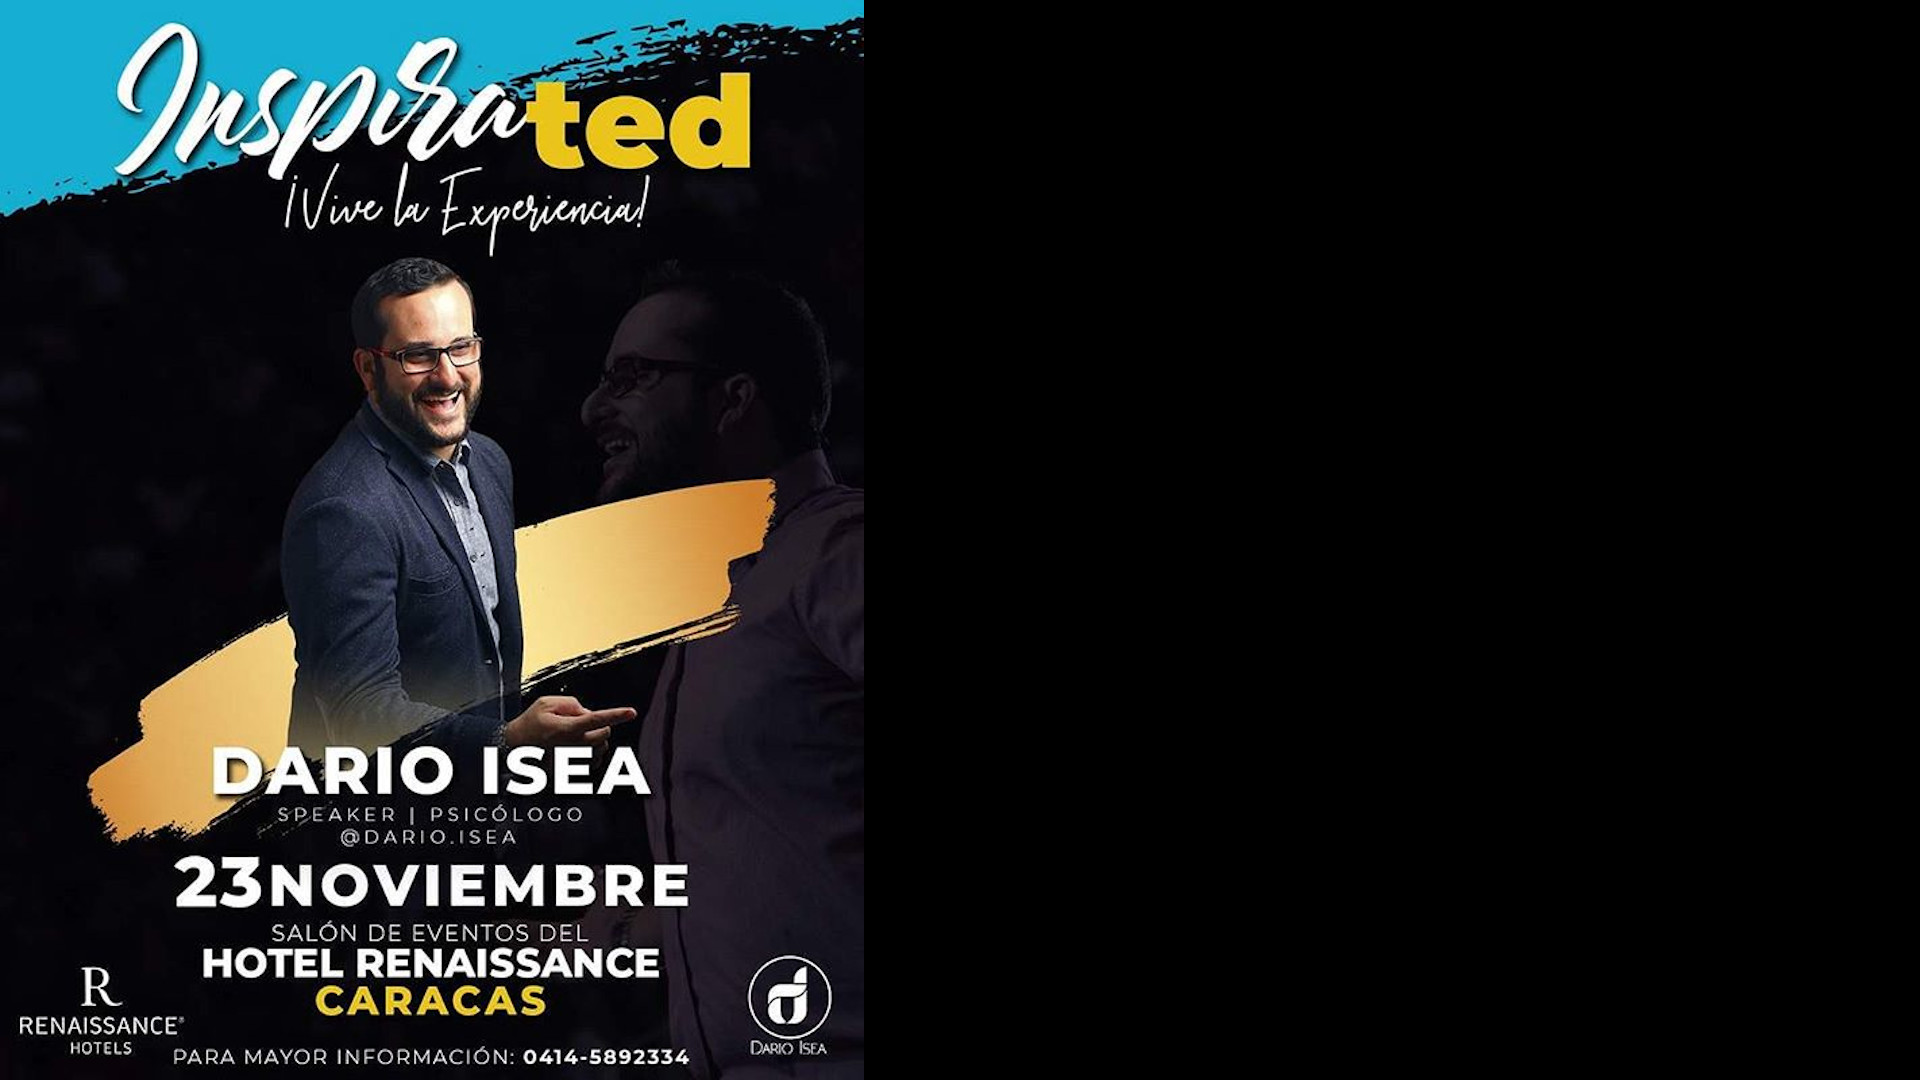
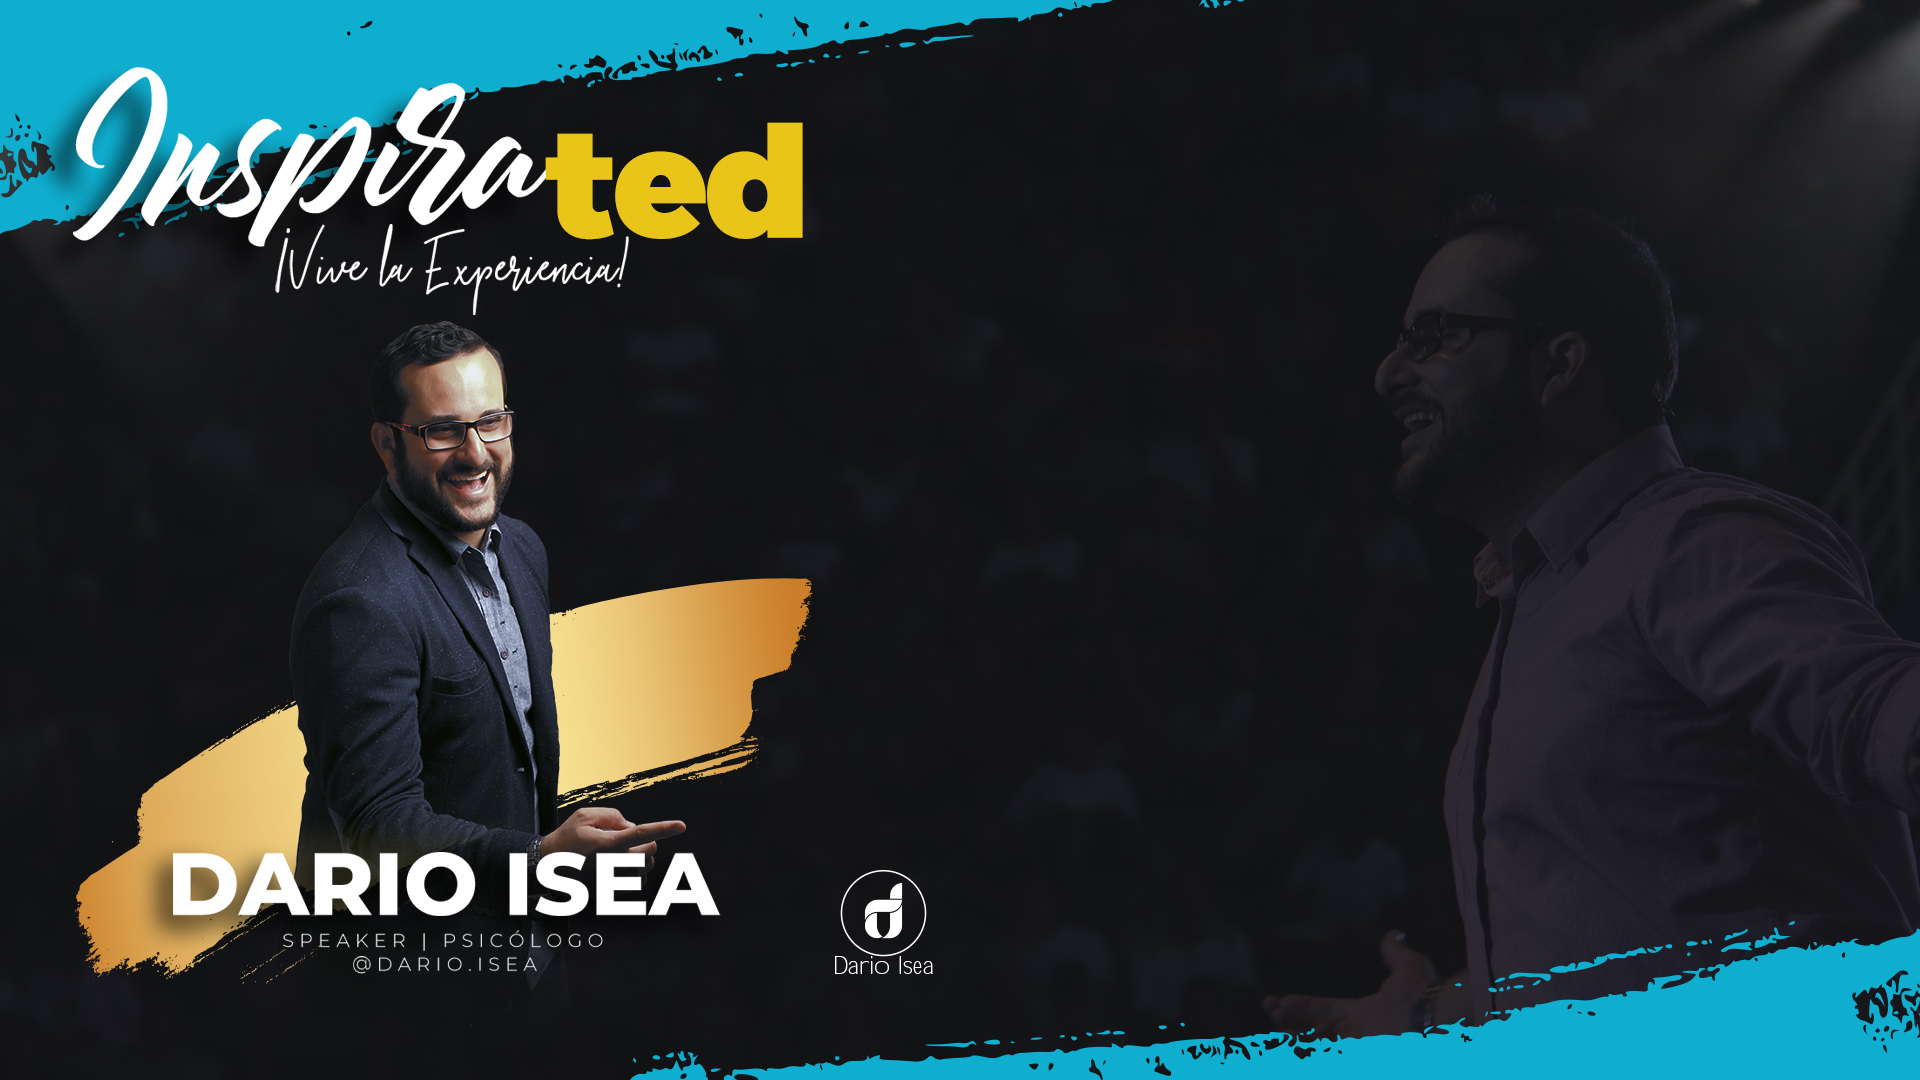
Updated Bg

diff --git a/src/pages/Home.js b/src/pages/Home.js
@@ -7,12 +7,15 @@ const useStyles = makeStyles(theme => ({
   root: {
     minHeight: '100vh',
     backgroundImage: `url(${bgLgImage})`,
-    backgroundPosition: 'center',
+    backgroundPosition: 'right',
     backgroundSize: 'cover',
     backgroundColor: '#000',
     backgroundRepeat: 'no-repeat',
     display: 'flex',
-    flexGrow: 1
+    flexGrow: 1,
+    [theme.breakpoints.up('sm')]: {
+      backgroundPosition: 'center',
+    },
   },
   grid: {
     textAlign: 'center',
@@ -29,7 +32,7 @@ const useStyles = makeStyles(theme => ({
     color: '#FFF',
   },
   alternativeText: {
-    color: '#E9C515',
+    color: '#E9C419',
     fontWeight: 500
   },
   link: {
@@ -64,7 +67,7 @@ function HomePage() {
               </a>
             </Typography>
             <br />
-            <Typography variant="h3" className={classes.primaryText}>
+            <Typography variant="h3" className={classes.alternativeText}>
               23 NOVIEMBRE
             </Typography>
             <br />
